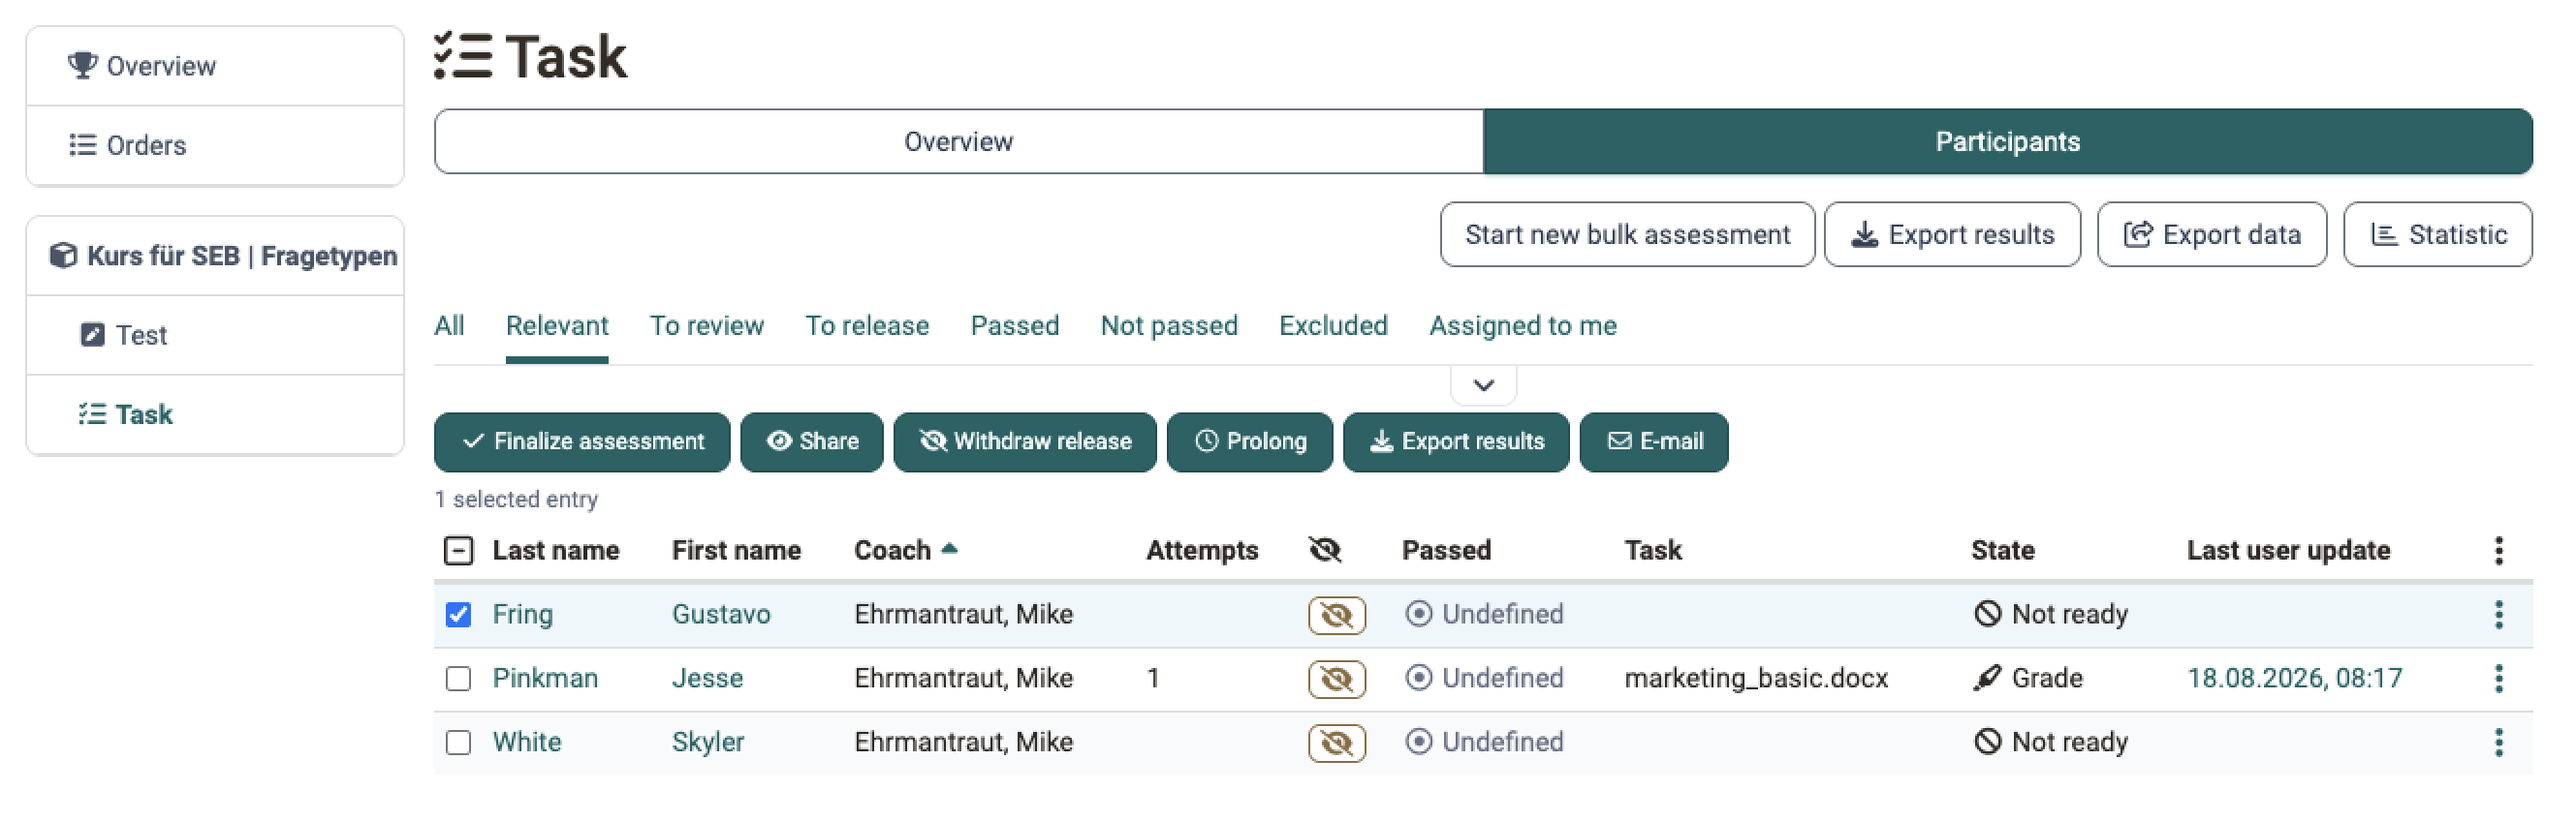
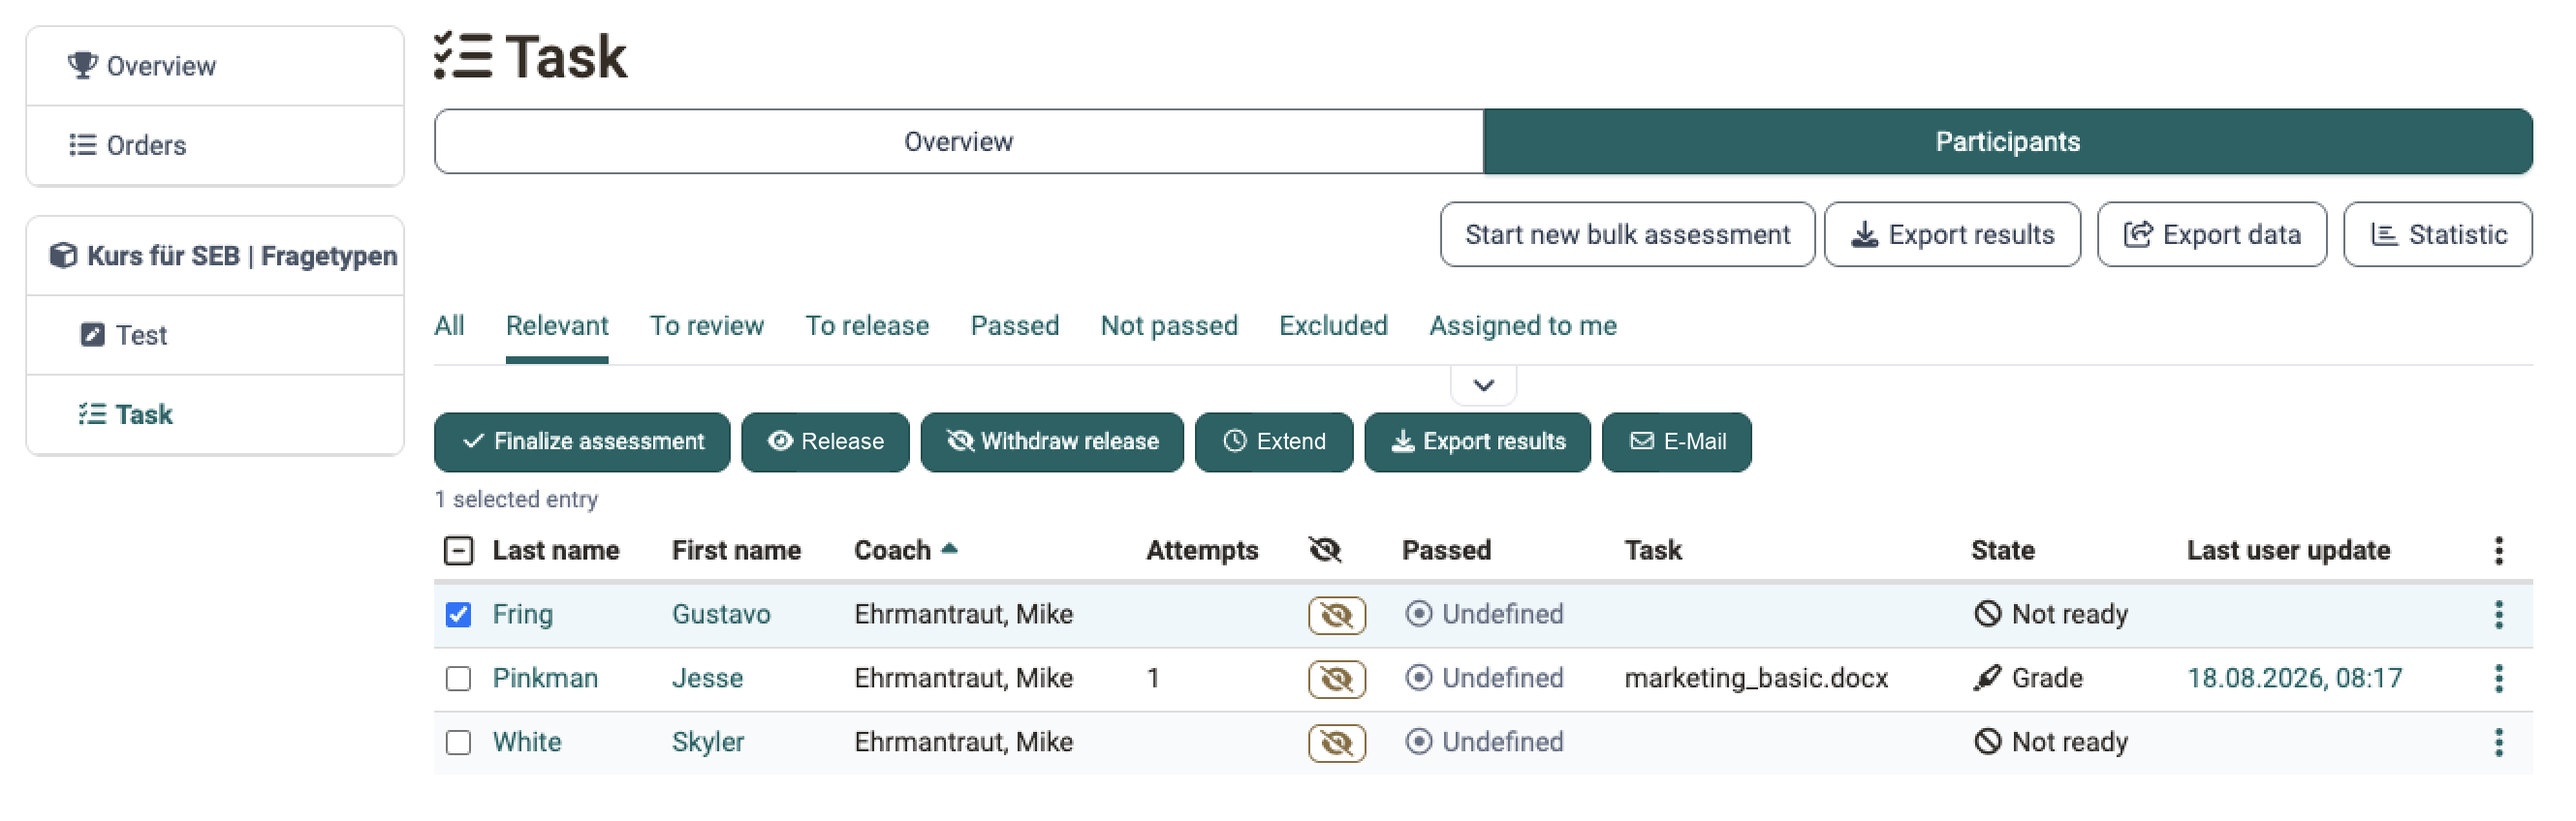
OODOC-550 (EN), Resultat-Export und Betreuer-Zuweisungstabelle nachgezogen.

Changed region(s): [[0.281, 0.4906, 0.687, 0.5825]]

diff --git a/sites/manual_user/docs/learningresources/Assessing_tasks_and_group_tasks.md b/sites/manual_user/docs/learningresources/Assessing_tasks_and_group_tasks.md
@@ -2,29 +2,33 @@
 
 Here you will learn how to make assessments for tasks and group tasks using the OpenOlat "Assessment tool".
 
-Go to the assessment tool, activate the tab "User" and select a task from the left overview of the assessment elements of the course. In the table you will now see various action options as well as all assessable persons.
+Go to the assessment tool and select the assessment element you want to assess from the overview on the left. Here you will find two tabs: Overview and Participants.
 
-In the tab Overview you get an overview of the assessment of this course element, e.g. how many persons have already passed this course element. In the tab Participants the course participants are displayed and the actual evaluation of participants can be started.
+In the tab Overview you get an overview of the assessment of this course element, e.g. how many persons have already passed this course element. 
+In the tab Participants the participants are displayed and the actual evaluation of participants can be started.
 
 
-## Tab Teilnehmer
+## Tab Participants
 
 **General action options**
 
-![Aufgaben im Bewertungswerkzeug](assets/Bewertungswerkzeug_Aufgabe_TN_172.png){ class="shadow lightbox" }
+![Above the participant list stand the actions "Start new bulk assessment", "Export results", "Export data" and "Statistic"; for each person the list carries Coach, Attempts, Passed, Task, State and last update: tab Participants of the assessment tool](assets/assessment_tool_task_participants_en.png){ class="shadow lightbox" }
 
 Course coaches and course owners have various action options via the corresponding buttons:
 
-* download all submitted documents at once
+* use "Export results" to download the submitted documents of all or selected participants together with an Excel report
+* use "Export data" to output the assessment data of the participants.
+* use "Statistic" to open the analysis of the course element.
 * start a new bulk assessment and thus assess all participants at once.
 * set the task to the status "completed" for all or several selected participants and thus finally finish the assessment. To do this, the desired participants or all participants must first be selected.
 * set the assessments of the task to visible or invisible for all or several selected participants at once.
 * To send an email to all or specific participants.
 * To extend the submission time for certain or all people.
 
-Directly selectable are the options to download all submitted documents as well as to perform a mass evaluation. How to create a mass evaluation for tasks exactly you will learn here in the section [How to](../../manual_how-to/bulk_assessment/bulk_assessment.md). For further actions that only apply to certain participants, the desired participants must first be selected before the options are displayed.
+Directly selectable are the options "Export results" as well as to perform a mass evaluation. How to create a mass evaluation for tasks exactly you will learn here in the section [How to](../../manual_how-to/bulk_assessment/bulk_assessment.md).
+For further actions that only apply to certain participants, the desired participants must first be selected before the options are displayed.
 
-![Ausgewählte Bewertungsoptionen](assets/Bewertungswerkzeug_Aufgabe_TN1_172.png){ class="shadow lightbox" }
+![After a row is selected, a bar with six actions for the selected people appears above the list: "Finalize assessment", "Release", "Withdraw release", "Extend", "Export results" and "E-Mail": tab Participants of the assessment tool](assets/assessment_tool_task_bulk_actions_en.png){ class="shadow lightbox" }
 
 ## View submitted documents
 
@@ -36,17 +40,43 @@ Once a file has been submitted by a learner via the "final submission" button, i
 
 To view the submission of _an individual person_ select that person and click on the submitted file.
 
-![Abgegebene Aufgabe anzeigen](assets/Aufgabe_abgegeben.png){ class="shadow lightbox" }
+![The step Submission is marked "Completed" and lists the submitted file with its submission date, the actions "Open" and "Download" as well as the button "Submitted documents": assessment workflow of an individual person in the assessment tool](assets/Aufgabe_abgegeben.png){ class="shadow lightbox" }
 
 You can find out how to assess the assessment modules of individual persons in general in a [step-by-step guide](Assessment_of_learners.md).
 
 ### Submissions from all or multiple users
 
-If many solution attempts have been uploaded or you need to assess many learners, it is recommended to use the "Download all submitted documents" button to download all solution attempts at once. In the downloaded folder you will also find all the task assignments. 
+If many solution attempts have been uploaded or you need to assess many learners, it is recommended to use the "Export results" button to download all solution attempts at once. In the downloaded folder you will also find all the task assignments. 
 
-Alternatively, you can select the desired people and then choose the option "Download all submitted documents".
+Alternatively, you can select the desired people and then choose the option "Export results".
 
 Afterwards you can fill in the [Assessment form](The_assessment_form.md). It will appear under "Assessment" when you assess a course element.
+
+
+### Excel report of the results [:octicons-tag-16:{ title="from Release 21.0.2 (OO-9601)" }](https://track.frentix.com/issue/OO-9601) {: #results_export}
+
+Besides the submitted documents, the zip file from "Export results" contains an Excel report. It carries one row per person and records who completed which step and when. Course owners read from it, for example, which coach completed an assessment, and base the remuneration of the assessment work on it.
+
+Besides the sequential number, course path, first access and the person data, the report contains these columns:
+
+Column | Content | Appears
+---------|----------|----------
+Group | Name of the group that submitted the solution | only for the course element Group task
+Task | Title of the assigned task | if the step Task is activated
+Step | Workflow step the person currently stands in | always
+Assignment completed | Date on which the task was assigned | if the step Task is activated
+Submission completed | Date of the final submission | always
+Feedback completed | Date on which return and feedback were completed | if the step Feedback is activated
+Revision completed | Date on which the revision was completed | if the step Revision is activated
+Grading completed | Date on which the assessment was completed | if the step Assessment is activated
+Remarks | Remarks on the submission | always
+Coach | The coach assigned to the person | if the assignment of coaches and participants is activated
+
+The column "Coach" stands behind the assessment columns (Score, Passed, Attempts, last change).
+
+A step that is not activated in the course element produces no column. So if the column "Feedback completed" is missing, the step Feedback is not active in this course element. Which steps are active is defined by course owners in the course editor: `Course > Course editor > "Task element" > Tab "Workflow"`.
+
+The course archiving produces the same Excel report, provided the step Assessment is activated in the course element.
 
 
 ## Assessment workflow course element "Task"
@@ -55,7 +85,7 @@ Exactly which steps are available in the evaluation flow depends on the specific
 
 If desired and configured accordingly, a return document can be uploaded. This could be, for example, a detailed evaluation table or a revised version of the submission. It is also possible to return a submission to the learner via the "Revision" button and trigger a revision loop.
 
-Once a user has definitely submitted a task, it is no longer possible for him to submit it again or to exchange it. However, if an assignment is submitted by mistake or the wrong document is uploaded, the coach can "reopen submission" and allow the learner to submit another submission.
+Once participants have definitely submitted a task, it is no longer possible for them to submit it again or to exchange it. However, if an assignment is submitted by mistake or the wrong document is uploaded, the coach can "reopen submission" and allow the learner to submit another submission.
 
 Both learners and teachers can see how far the assessment workflow has progressed by the green ticks next to the individual assessment steps.
 
@@ -75,19 +105,19 @@ The evaluation of submissions via the course element "Group task" is similar to 
 
 In the "Assessment" area, i.e. the actual assessment form, click on the "Assess" button.
 
-![Gruppe bewerten](assets/Gruppe_bewerten.png){ class="shadow lightbox" }
+![Assignment, submission and return of the group are completed, the step Assessment stands on "Open" and shows the performance overview of both group members with the button "Assess": assessment workflow of a group in the assessment tool](assets/Gruppe_bewerten.png){ class="shadow lightbox" }
 
 The advantage of a group task is that an assessment can be made for all group members at once using the "Grade" button, but at the same time adjustments can be made for individual group members.
 
-If not the whole group has passed or not all should receive the same score, "For the whole group" must _not_ be selected. This makes individual scoring per user possible.
+If not the whole group has passed or not all should receive the same score, "For the whole group" must _not_ be selected. This makes individual scoring per participant possible.
 
-![Gruppenaufgabe Gruppenbewertung](assets/Gruppenbewertung.png){ class="shadow lightbox" }
+![The activated checkbox "For the whole group" transfers score and comment to all group members, below it the choice between "Not released" and "Released": dialogue Assessment of a group task](assets/Gruppenbewertung.png){ class="shadow lightbox" }
 
 
-!!! info "Info"
+!!! info "Important"
 
     If other assessable course elements are to be assessed instead of a "group task" for a group, the assessments must be made separately for each group member.
 
-!!! info "Info"
+!!! note "Hint"
 
-    In the course run, the evaluation of the individual groups is even more intuitive, as all potential groups to be evaluated are displayed directly here.
+    In the course run, the assessment of the individual groups is also possible, similar to the course element Task in general.

diff --git a/sites/manual_user/docs/learningresources/Assess_tasks.md b/sites/manual_user/docs/learningresources/Assess_tasks.md
@@ -6,15 +6,25 @@ You can find out in detail how tasks and group tasks are evaluated in the assess
 
 ## Coach view {: #coach_view}
 
-In the run time view you get to the assessment area by clicking on the corresponding task. If the coach or course owner is participant at the same time in the course the tabs "Favorites" and "All participants" appear. If the assignment is stored directly in the task, the tab "Edit tasks and sample solutions" also appears. If a coach may also create tasks, the tab "Edit tasks and sample solutions" is also visible for him.
+In the run time view you get to the assessment area by clicking on the corresponding task. The tabs "Overview" and "Participants" are available. For the course element Task, the tab "Workflow" is added. If the assignment is stored directly in the task, the tab "Edit tasks and sample solutions" also appears. If a coach may also create tasks, the tab "Edit tasks and sample solutions" is also visible for him. If reminders or to-dos are set up, the tab "Reminders & to-dos" appears for course owners.
 
-The table displays the current workflow step. The ![Action needed](assets/action_needed.png){ class=size16 } indicates whether the coach needs to take action. The steps Review and Correction require coach input in order for the user to be able to finalize the task. Whether the step Solution (without icon) includes the assessment step, depends on the configuration of the task. The Grading step is only displayed if no sample solution is available, but remains, even with the assessment already carried out. Choose the column according to your needs.
+In the tab "Participants", filter tabs narrow down the list, among them "All" and "Relevant". Which further tabs appear depends on the configuration of the course element.
 
-![All participants](assets/task_correction.png){ class="shadow" }
+The table displays the current workflow step in the column "Step". The symbol :o_icon_o_icon_info: in front of the step means that an action by the coach is required. The steps Review and Correction require coach input in order for the user to be able to finalize the task. Whether the step Solution (without icon) includes the assessment step, depends on the configuration of the task. The Grading step is only displayed if no sample solution is available, but remains, even with the assessment already carried out. Choose the column according to your needs.
+
+![The column "Step" names the workflow step reached for each person and marks with an info symbol where an action is required; next to it stand Coach, Task, Submission date, Score, Passed, number of documents and State, above them the actions "Export results" and "Statistic": tab Participants of the coach view in the course](assets/task_correction.png){ class="shadow lightbox" }
 
 Clicking on an individual person in the participant list takes you to the assessment workflow for that person and allows you to upload feedback and assign points, depending on the configuration of the task.
 
-All files uploaded by the participant can be downloaded in the tab "Submissions" as well as in the assessment tool with one click on the button "Download all submitted files". The single uploads are saved sorted after learners (last name, name, username) with the corresponding sub folders as zip file.
+To process several people at once, select the rows you want. As soon as one row is selected, the actions "Finalize assessment", "Release", "Withdraw release", "Extend", "Export results" and "E-Mail" appear above the list.
+
+![After a row is selected, a bar with six actions for the selected people appears above the list: "Finalize assessment", "Release", "Withdraw release", "Extend", "Export results" and "E-Mail": tab Participants of the coach view in the course](assets/task_coach_bulk_actions_en.png){ class="shadow lightbox" }
+
+All files uploaded by the participant can be downloaded in the tab "Submissions" as well as in the assessment tool with one click on the button "Export results". The single uploads are saved sorted after learners (last name, name, username) with the corresponding sub folders as zip file.
+
+The zip file additionally contains an Excel report. It carries a separate date column for every activated workflow step, that is exactly for the steps that the overview table shows in the column "Step". If the assignment of coaches and participants is activated, the report also states the assigned coach. The individual columns are described under [Excel report of the results](Assessing_tasks_and_group_tasks.md#results_export).
+
+If the coach assignment is activated, the column "Coach" of the overview table shows who supervises a person. The assignment itself is made by course owners via the [assignment table](Course_Element_Task.md#coach_assignment_table); coaches do not see this button.
 
 If no file is uploaded until the submission deadline it is marked in the overview as "No submission".
 
@@ -22,7 +32,7 @@ If no file is uploaded until the submission deadline it is marked in the overvie
 
     If you are simultaneously registered in the course as a course owner and a participant, you can switch between the respective roles to see how the task looks from the learner's point of view.
 
-How course participants will see the course element "Task" will be explained in the chapter "Learning Activities in Courses," section ["Task and Group Task"](../learningresources/Course_Elements.md).
+How participants will see the course element "Task" will be explained in the chapter "Learning Activities in Courses," section ["Task and Group Task"](../learningresources/Course_Elements.md).
 
 ### Changing return and feedback documents {: #return_feedback}
 
@@ -38,7 +48,7 @@ To change the feedback documents of individual participants under "Return and fe
 - In the "Submission" step, select "Reopen submission".
 - The following message appears:
 
-    ![Reopen submission](assets/Task_reopen_submission.png){ class="shadow lightbox aside-right-sm" }
+    ![The message lists the three consequences of reopening: documents already submitted are no longer accessible, the person has to submit again, the submission deadline needs checking: dialogue Reopen submission](assets/Task_reopen_submission.png){ class="shadow lightbox aside-right-sm" }
     The submission for "Last name, First name" is reopened:<br>
         * Documents already submitted are no longer accessible to you<br>
         * The participant can edit the documents and must submit them again<br>

diff --git a/sites/manual_user/docs/learningresources/Course_Element_Grouptask.md b/sites/manual_user/docs/learningresources/Course_Element_Grouptask.md
@@ -6,7 +6,7 @@
 Name | Group task
 ---------|----------
 Icon | :o_icon_o_gta_icon:
-Available since | 
+Available since | Release 10.3 (OO-991)
 Functional group | Assessment
 Purpose | Modeling of complex task workflows with configurable substeps such as submission of solution documents, feedback and revision loop, provision of sample solution and assessment
 Assessable | yes
@@ -21,9 +21,9 @@ Here is some important information specific to the course module Group Assignmen
 ## Tab Workflow {: #workflow}
 When creating the group assignment, one or more groups must be selected in the "Workflow" tab to which the assignment will be assigned. Only these groups can then view and edit the assignment. As long as no group has been assigned, the course element is not visible when the editor is closed.
 
-!!! info
+!!! info "Important"
 
-    In the group task, the coaching assignment configuration is omitted because this assignment is automatically determined by the coaching assignment of the group.  
+    In the group task, there is no coaching assignment configuration. The assignment follows automatically from the coaching assignment of the group.
 
 When **changes are made to the workflow**, e.g., removing the task, this component of the workflow is removed for all groups in the course. The information about tasks that have already been selected will then no longer be visible. However, if the component is reinserted into the workflow, this information will be accessible again. However, if, for example, the task is added later and a group has already progressed further in its workflow, no task needs to be selected retrospectively.
 
@@ -40,6 +40,10 @@ If email confirmation is enabled, all group members will receive an email confir
 Points and feedback are generated for the entire group, but can be customized individually.
 
 When the editor is closed, the assigned groups are displayed in the "Participants" tab, where they can be selected and evaluated. As part of the evaluation process, you can decide whether the assessment applies to the entire group or only to a specific group member. 
+
+### Column "Group" in the result export [:octicons-tag-16:{ title="from Release 21.0.2 (OO-9601)" }](https://track.frentix.com/issue/OO-9601) {: #results_export}
+
+For the group task, the Excel report from "Export results" carries an additional column "Group" with the name of the group that submitted the solution. This keeps it traceable in the report which submission belongs to which group. The remaining columns are described under [Excel report of the results](Assessing_tasks_and_group_tasks.md#results_export).
 
 ## Reminders & To-dos tab {: #tab_reminders_todo}
 There are no to-dos for group tasks, even if the option can be activated and initially gives a different impression. 
